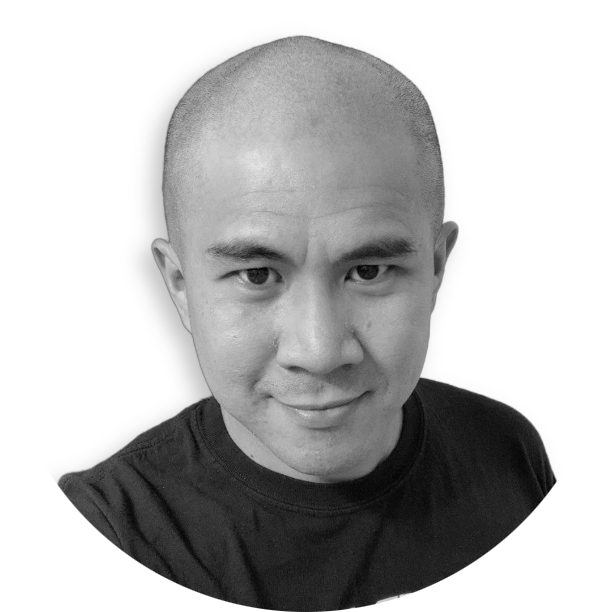
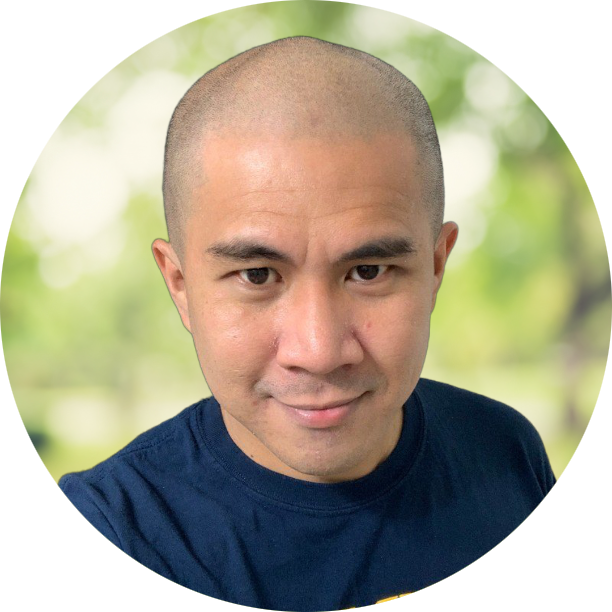
update profile pic

diff --git a/styles/globals.css b/styles/globals.css
@@ -63,11 +63,11 @@ ul {
   display: block;
   margin: 0 auto;
   float: left;
-  height: 80px;
+  height: 90px;
 }
 
 #tag-line {
-  margin-left: 100px;
+  margin-left: 110px;
   margin-bottom: 20px;
   font-weight: 500;
 }

diff --git a/components/home.js b/components/home.js
@@ -1,4 +1,4 @@
-import profilePic from "./picofme.png";
+import profilePic from "./profile-pic.png";
 
 const Home = () => {
   return (
